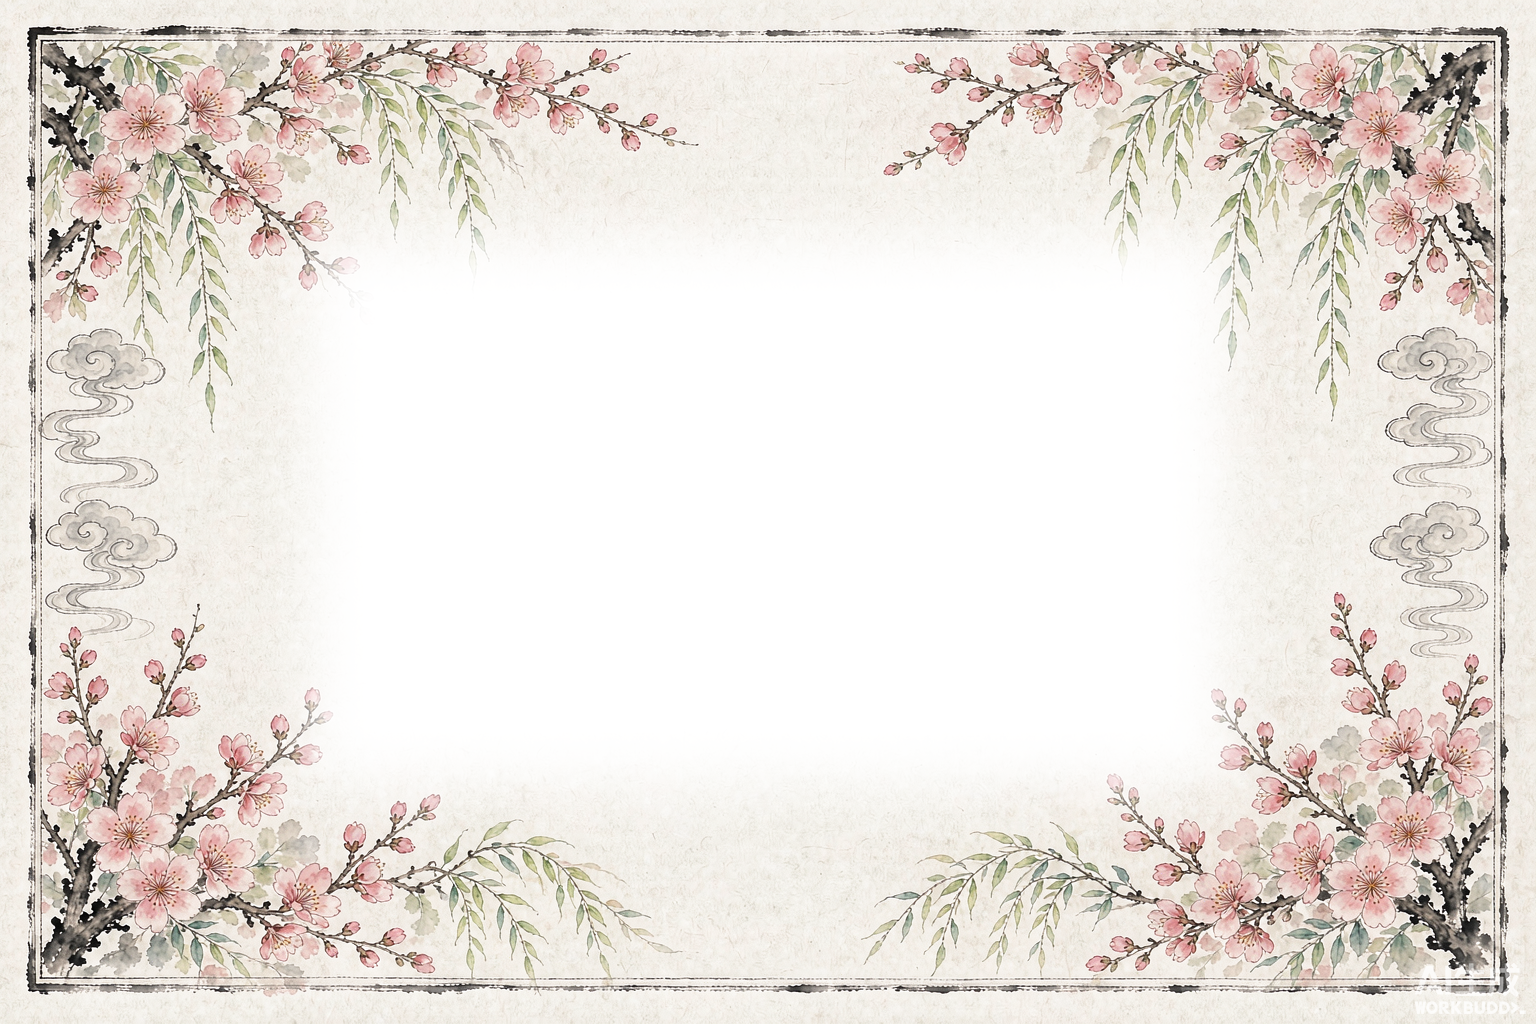
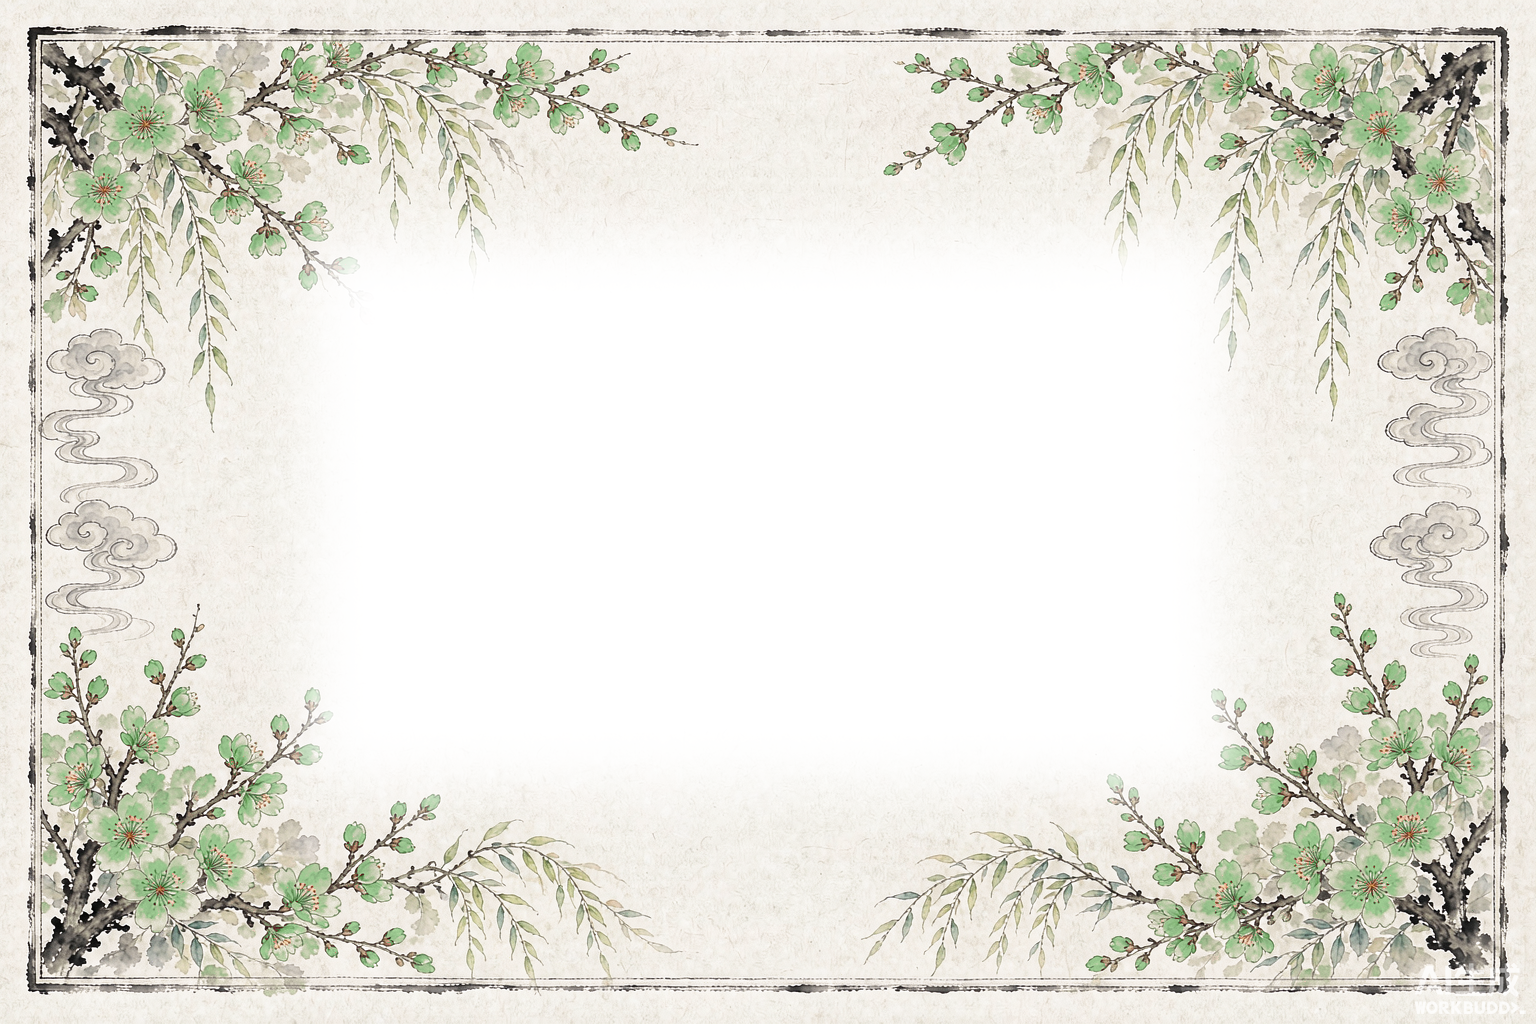
fix+art(ui): 夏季开场边框去桃花（FRAME_xia 串入春花）+ 节点地图换美术（纸卡+墨圈徽+笔触连线）

diff --git a/Assets/WanXiang/Modules/UI/CampaignPanel.cs b/Assets/WanXiang/Modules/UI/CampaignPanel.cs
@@ -468,7 +468,7 @@ _scrollNodes.verticalNormalizedPosition = Mathf.Clamp01(1f - (Mathf.Abs(curY) - 
                     rt.localRotation = Quaternion.Euler(0f, 0f, ang);
 
                     var img = go.AddComponent<Image>();
-                    img.sprite = WhiteSprite();
+                    img.sprite = LineSprite();                 // 笔触墨线（回退白 sprite）
                     img.raycastTarget = false;
                     img.color = walked ? PathGold : EdgeInk;
                     }
@@ -498,6 +498,18 @@ _scrollNodes.verticalNormalizedPosition = Mathf.Clamp01(1f - (Mathf.Abs(curY) - 
             tex.Apply();
             _white = Sprite.Create(tex, new Rect(0, 0, 1, 1), new Vector2(0.5f, 0.5f), 100f);
             return _white;
+        }
+
+        private static Sprite _lineSprite;
+        private static bool _lineTried;
+        /// <summary>连线美术：笔触墨线（Resources/UI/Campaign/map_edge_ink）。缺图回退白 sprite，保证功能不受影响。</summary>
+        private static Sprite LineSprite()
+        {
+            if (_lineTried) return _lineSprite;
+            _lineTried = true;
+            _lineSprite = UnityEngine.Resources.Load<Sprite>("UI/Campaign/map_edge_ink");
+            if (_lineSprite == null) _lineSprite = WhiteSprite();
+            return _lineSprite;
         }
 
         private RectTransform SpawnNodeItem(RectTransform content, int offset, int layer)
